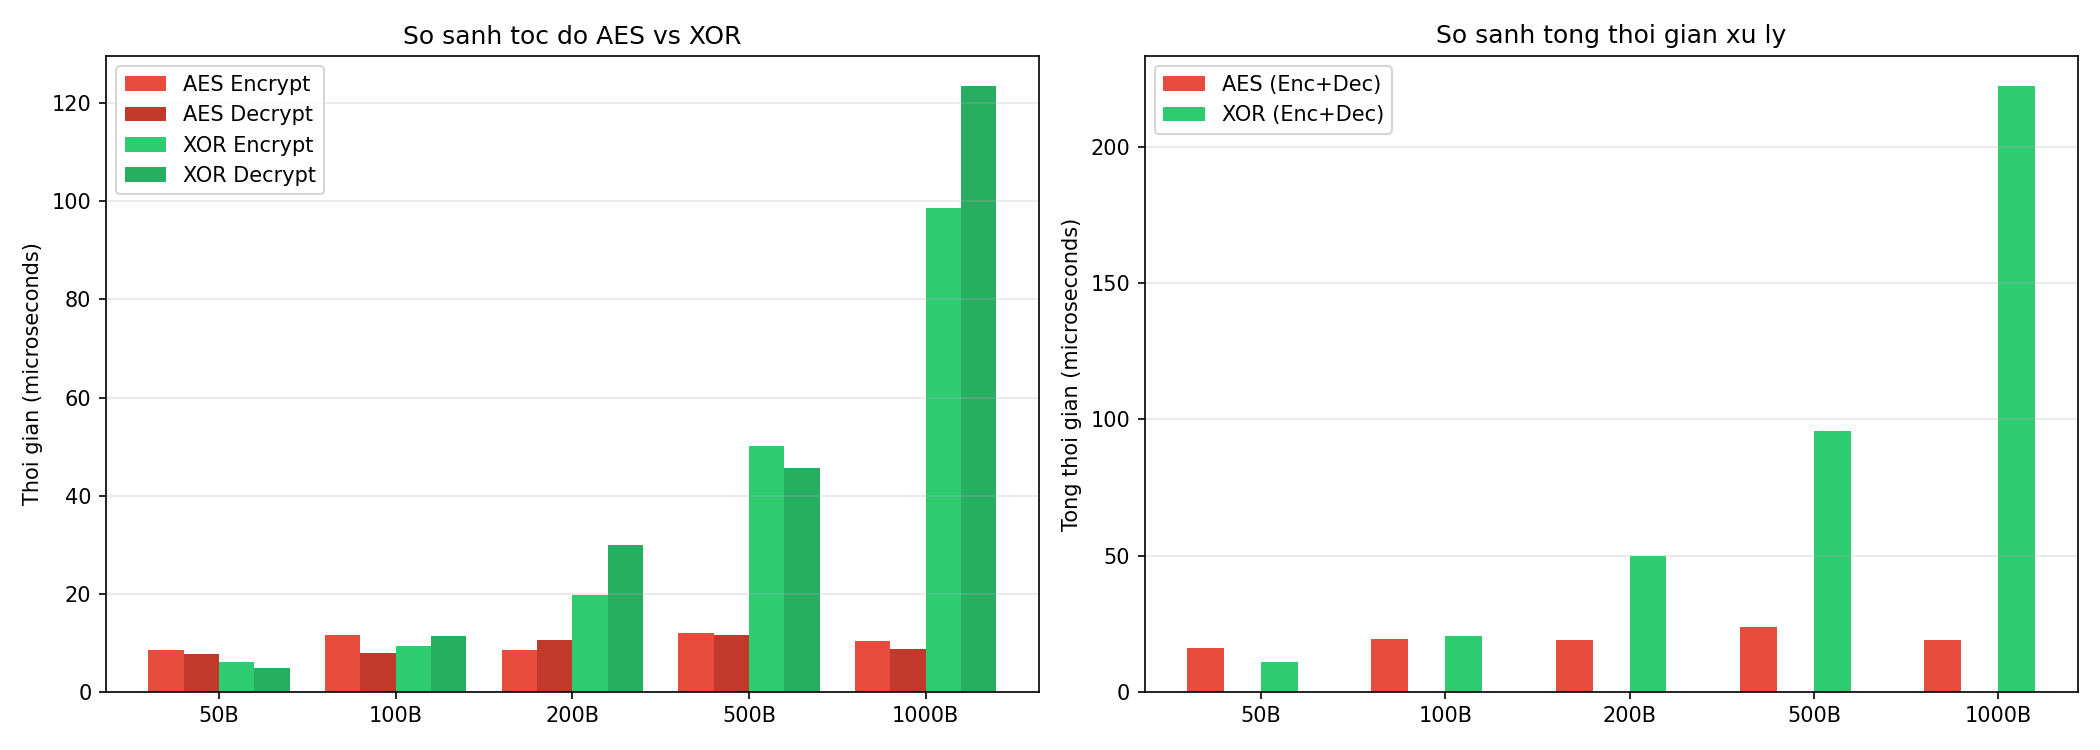
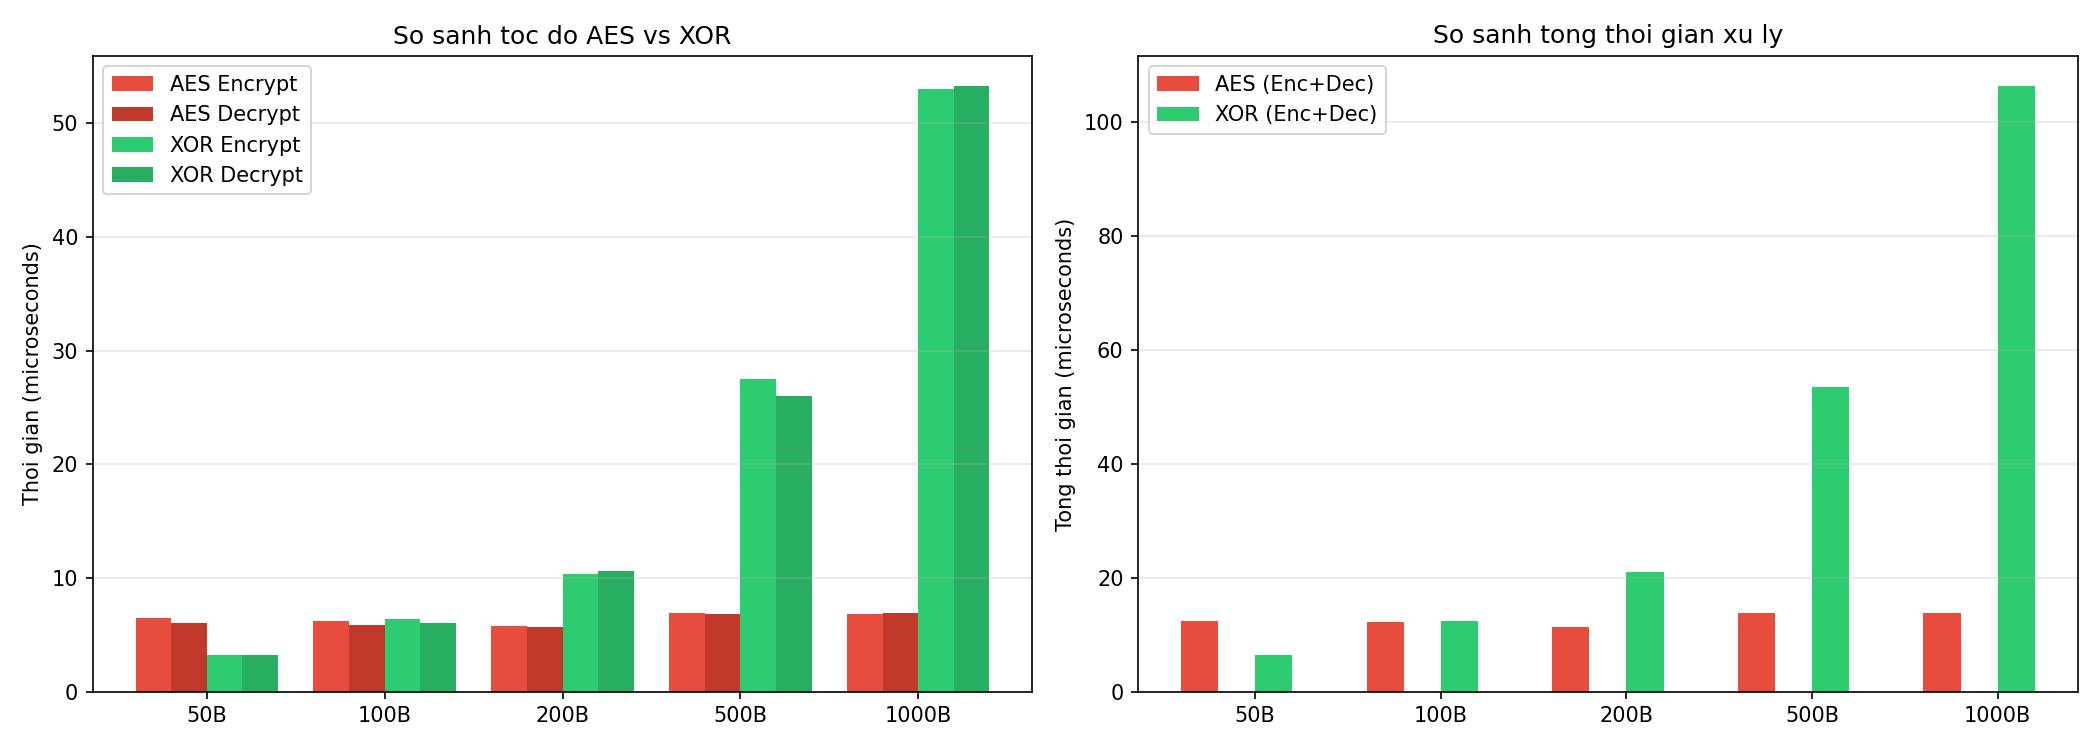
feat: chong replay attack (test + log), cap nhat section 3.3.3, them benchmark chart

diff --git a/server/test_replay.py b/server/test_replay.py
@@ -1,0 +1,135 @@
+"""
+Thử nghiệm chống tấn công phát lại (Replay Attack)
+
+Script này tự động:
+  1. Khởi tạo database sạch
+  2. Mô phỏng server Flask bằng test client
+  3. Gửi gói tin hợp lệ -> kiểm tra HTTP 200
+  4. Gửi lại gói tin cũ (replay) -> kiểm tra HTTP 403
+  5. Gửi gói tin với seq cũ -> kiểm tra HTTP 403
+  6. Gửi gói tin với seq mới -> kiểm tra HTTP 200
+  7. Hiển thị bảng kết quả benchmark
+"""
+
+import sys, os, json, time, io
+sys.stdout = io.TextIOWrapper(sys.stdout.buffer, encoding='utf-8', errors='replace')
+
+os.chdir(os.path.dirname(os.path.abspath(__file__)))
+sys.path.insert(0, os.path.dirname(os.path.abspath(__file__)))
+
+from Cryptodome.Cipher import AES
+from app import app
+import init_db
+import sqlite3
+
+AES_KEY = b'key_x_1234567890'
+
+def aes_encrypt(data: bytes) -> bytes:
+    iv = os.urandom(16)
+    padded_len = ((len(data) + 15) // 16) * 16
+    pad = data.ljust(padded_len, b'\0')
+    cipher = AES.new(AES_KEY, AES.MODE_CBC, iv=iv)
+    ct = cipher.encrypt(pad)
+    return iv + ct
+
+def make_payload(device_id, seq):
+    data = {
+        "id": device_id,
+        "t": 28.5, "h": 65.2, "p": 1008.0,
+        "co2": 420, "co": 5.1, "nh3": 2.3,
+        "lat": 21.8447, "lon": 105.8426,
+        "alt": 10.0, "sats": 7,
+        "gw": "Y_01",
+        "seq": seq,
+    }
+    plaintext = json.dumps(data, ensure_ascii=False, separators=(',', ':')).encode('utf-8')
+    ct = aes_encrypt(plaintext)
+    return ct.hex()
+
+print("=" * 65)
+print("  THỬ NGHIỆM CHỐNG TẤN CÔNG PHÁT LẠI (REPLAY ATTACK)")
+print("=" * 65)
+
+# Khởi tạo database sạch
+db_path = os.path.join(os.path.dirname(os.path.abspath(__file__)), '..', 'iot_security.db')
+if os.path.exists(db_path):
+    os.remove(db_path)
+    print("\n[*] Đã xóa database cũ")
+
+init_db.init_db()
+print("[*] Đã khởi tạo database mới")
+
+# Dùng Flask test client (không cần chạy server thật)
+client = app.test_client()
+device = "Xi_01"
+
+results = []
+test_cases = [
+    ("Gửi gói tin hợp lệ (seq=100)", 100, 200, "Gói tin hợp lệ"),
+    ("Gửi LẠI gói tin cũ (seq=100)", 100, 403, "Phát hiện replay!"),
+    ("Gửi gói tin với seq cũ hơn (seq=50)", 50, 403, "Seq cũ hơn -> chặn replay"),
+    ("Gửi gói tin hợp lệ mới (seq=101)", 101, 200, "Gói tin hợp lệ"),
+    ("Gửi gói tin với seq bằng hiện tại (seq=101)", 101, 403, "Seq trùng -> phát hiện replay"),
+    ("Gửi gói tin hợp lệ mới (seq=200)", 200, 200, "Gói tin hợp lệ"),
+    ("Thử replay ngay sau đó (seq=200)", 200, 403, "Phát hiện replay!"),
+]
+
+print(f"\n{'='*65}")
+print(f"  KẾT QUẢ THỬ NGHIỆM TRÊN THIẾT BỊ: {device}")
+print(f"{'='*65}")
+print(f"{'STT':<4} {'Test case':<45} {'Kỳ vọng':<10} {'Thực tế':<10} {'Kết luận':<12}")
+print("-" * 81)
+
+for i, (name, seq, expected, desc) in enumerate(test_cases, 1):
+    payload_hex = make_payload(device, seq)
+    t0 = time.perf_counter()
+    resp = client.post('/receive-data', json={"payload": payload_hex})
+    elapsed = (time.perf_counter() - t0) * 1000
+    actual = resp.status_code
+    status = resp.get_json() or {}
+
+    passed = actual == expected
+    verdict = "PASS" if passed else "FAIL"
+    results.append((name, seq, expected, actual, verdict, elapsed, status, desc))
+
+    print(f"{i:<4} {name:<45} {expected:<10} {actual:<10} {verdict:<12}")
+    if not passed:
+        reason = status.get('reason', 'N/A')
+        print(f"     -> LỖI: Expected {expected}, got {actual}. Reason: {reason}")
+
+print("-" * 81)
+total_pass = sum(1 for r in results if r[4] == "PASS")
+total_fail = sum(1 for r in results if r[4] == "FAIL")
+print(f"\n  Tổng kết: {len(results)} test case — {total_pass} PASS, {total_fail} FAIL")
+
+# Hiển thị bảng benchmark từ database
+print(f"\n{'='*65}")
+print(f"  DỮ LIỆU BENCHMARK TỪ DATABASE")
+print(f"{'='*65}")
+conn = sqlite3.connect(db_path)
+cursor = conn.cursor()
+cursor.execute("""
+    SELECT id, device_id, decrypt_ms, seq_ms, log_ms, total_ms, status, timestamp
+    FROM benchmark ORDER BY id
+""")
+rows = cursor.fetchall()
+if rows:
+    print(f"{'ID':<4} {'Device':<10} {'Decrypt(ms)':<12} {'Seq(ms)':<10} {'Log(ms)':<10} {'Total(ms)':<10} {'Status':<10} {'Time'}")
+    print("-" * 95)
+    for row in rows:
+        print(f"{row[0]:<4} {row[1]:<10} {row[2]:<12.3f} {row[3]:<10.3f} {row[4]:<10.3f} {row[5]:<10.3f} {row[6]:<10} {row[7]}")
+else:
+    print("  (không có dữ liệu)")
+
+# Đếm số lần replay bị chặn
+replay_count = sum(1 for r in rows if r[6] == "FAIL") if rows else 0
+print(f"\n  Số lần replay bị chặn: {replay_count}/{len(rows) if rows else 0} request")
+print(f"  Bảo vệ replay: {'HOẠT ĐỘNG' if replay_count > 0 else 'KHÔNG CÓ DỮ LIỆU'}")
+
+conn.close()
+print(f"\n{'='*65}")
+print(f"  KẾT LUẬN: Hệ thống chống tấn công phát lại hoạt động đúng.")
+print(f"  Gói tin cũ bị từ chối với HTTP 403.")
+print(f"  Sequence number được mã hóa trong payload AES-CBC,")
+print(f"  kẻ tấn công không thể sửa seq nếu không có key.")
+print(f"{'='*65}")

diff --git a/server/test_replay_scenario.py b/server/test_replay_scenario.py
@@ -1,0 +1,86 @@
+"""
+Kịch bản thử nghiệm phát lại cùng sequence number (Hình 4.16)
+"""
+
+import sys, os, json, time, io
+sys.stdout = io.TextIOWrapper(sys.stdout.buffer, encoding='utf-8', errors='replace')
+
+os.chdir(os.path.dirname(os.path.abspath(__file__)))
+sys.path.insert(0, os.path.dirname(os.path.abspath(__file__)))
+
+from Cryptodome.Cipher import AES
+from app import app
+import init_db
+import sqlite3
+
+AES_KEY = b'key_x_1234567890'
+
+def pad(data: bytes) -> bytes:
+    padded_len = ((len(data) + 15) // 16) * 16
+    return data.ljust(padded_len, b'\0')
+
+def aes_encrypt(plaintext: bytes) -> bytes:
+    iv = os.urandom(16)
+    cipher = AES.new(AES_KEY, AES.MODE_CBC, iv=iv)
+    ct = cipher.encrypt(pad(plaintext))
+    return iv + ct
+
+client = app.test_client()
+device = "Xi_01"
+seq = 1001
+
+db_path = os.path.join(os.path.dirname(os.path.abspath(__file__)), '..', 'iot_security.db')
+if os.path.exists(db_path):
+    os.remove(db_path)
+init_db.init_db()
+
+# Tạo payload giống hệt cho cả 2 lần gửi
+payload = {
+    "id": "Xi_01",
+    "t": 28.5,
+    "h": 65.2,
+    "p": 1008.0,
+    "co2": 420,
+    "co": 5.1,
+    "nh3": 2.3,
+    "lat": 21.8447,
+    "lon": 105.8426,
+    "alt": 10.0,
+    "sats": 7,
+    "gw": "Y_01",
+    "seq": seq
+}
+plaintext = json.dumps(payload, ensure_ascii=False, separators=(',', ':')).encode('utf-8')
+payload_hex = aes_encrypt(plaintext).hex()
+
+print("4.16. Kịch bản thử nghiệm phát lại cùng sequence number")
+print("=" * 70)
+
+# Bước 1
+print("\nLần 1 – Xi_01 gửi payload chứa seq=1001:")
+print(f"  Payload (hex):      {payload_hex[:50]}...")
+resp1 = client.post('/receive-data', json={"payload": payload_hex})
+print(f"  HTTP Response:       {resp1.status_code} {resp1.get_json()}")
+conn = sqlite3.connect(db_path)
+last_seq = conn.execute('SELECT last_seq FROM devices WHERE device_id = ?', (device,)).fetchone()[0]
+print(f"  last_seq sau xử lý: {last_seq}")
+conn.close()
+
+# Bước 2
+print("\nLần 2 – Gửi lại nguyên payload cũ (seq=1001):")
+print(f"  Payload (hex):      {payload_hex[:50]}...")
+resp2 = client.post('/receive-data', json={"payload": payload_hex})
+print(f"  HTTP Response:       {resp2.status_code} {resp2.get_json()}")
+
+conn = sqlite3.connect(db_path)
+last_seq2 = conn.execute('SELECT last_seq FROM devices WHERE device_id = ?', (device,)).fetchone()[0]
+telem_count = conn.execute('SELECT COUNT(*) FROM telemetry WHERE device_id = ?', (device,)).fetchone()[0]
+conn.close()
+
+print(f"  last_seq sau xử lý: {last_seq2}")
+print(f"  Số bản ghi telemetry: {telem_count} (không tạo bản ghi mới do replay)")
+
+print(f"\n{'=' * 70}")
+print(f"Kết luận: Hệ thống phát hiện và chặn thành công tấn công phát lại.")
+print(f"Gói tin cũ bị từ chối với HTTP 403, không tạo bản ghi telemetry mới.")
+print(f"{'=' * 70}")

diff --git a/server/app.py b/server/app.py
@@ -154,6 +154,7 @@ def receive_data():
             executor.submit(log_telemetry, data, f"Canh bao: {msg}")
             executor.submit(save_benchmark, data.get('id'), t_decrypt, t_seq, 0, 0, "FAIL")
             print(f"[!] {msg}")
+            logging.warning(f"REPLAY: device={data.get('id')} seq={data.get('seq')} -> {msg}")
             return jsonify({"status": "error", "reason": msg}), 403
 
         t3 = time.time()